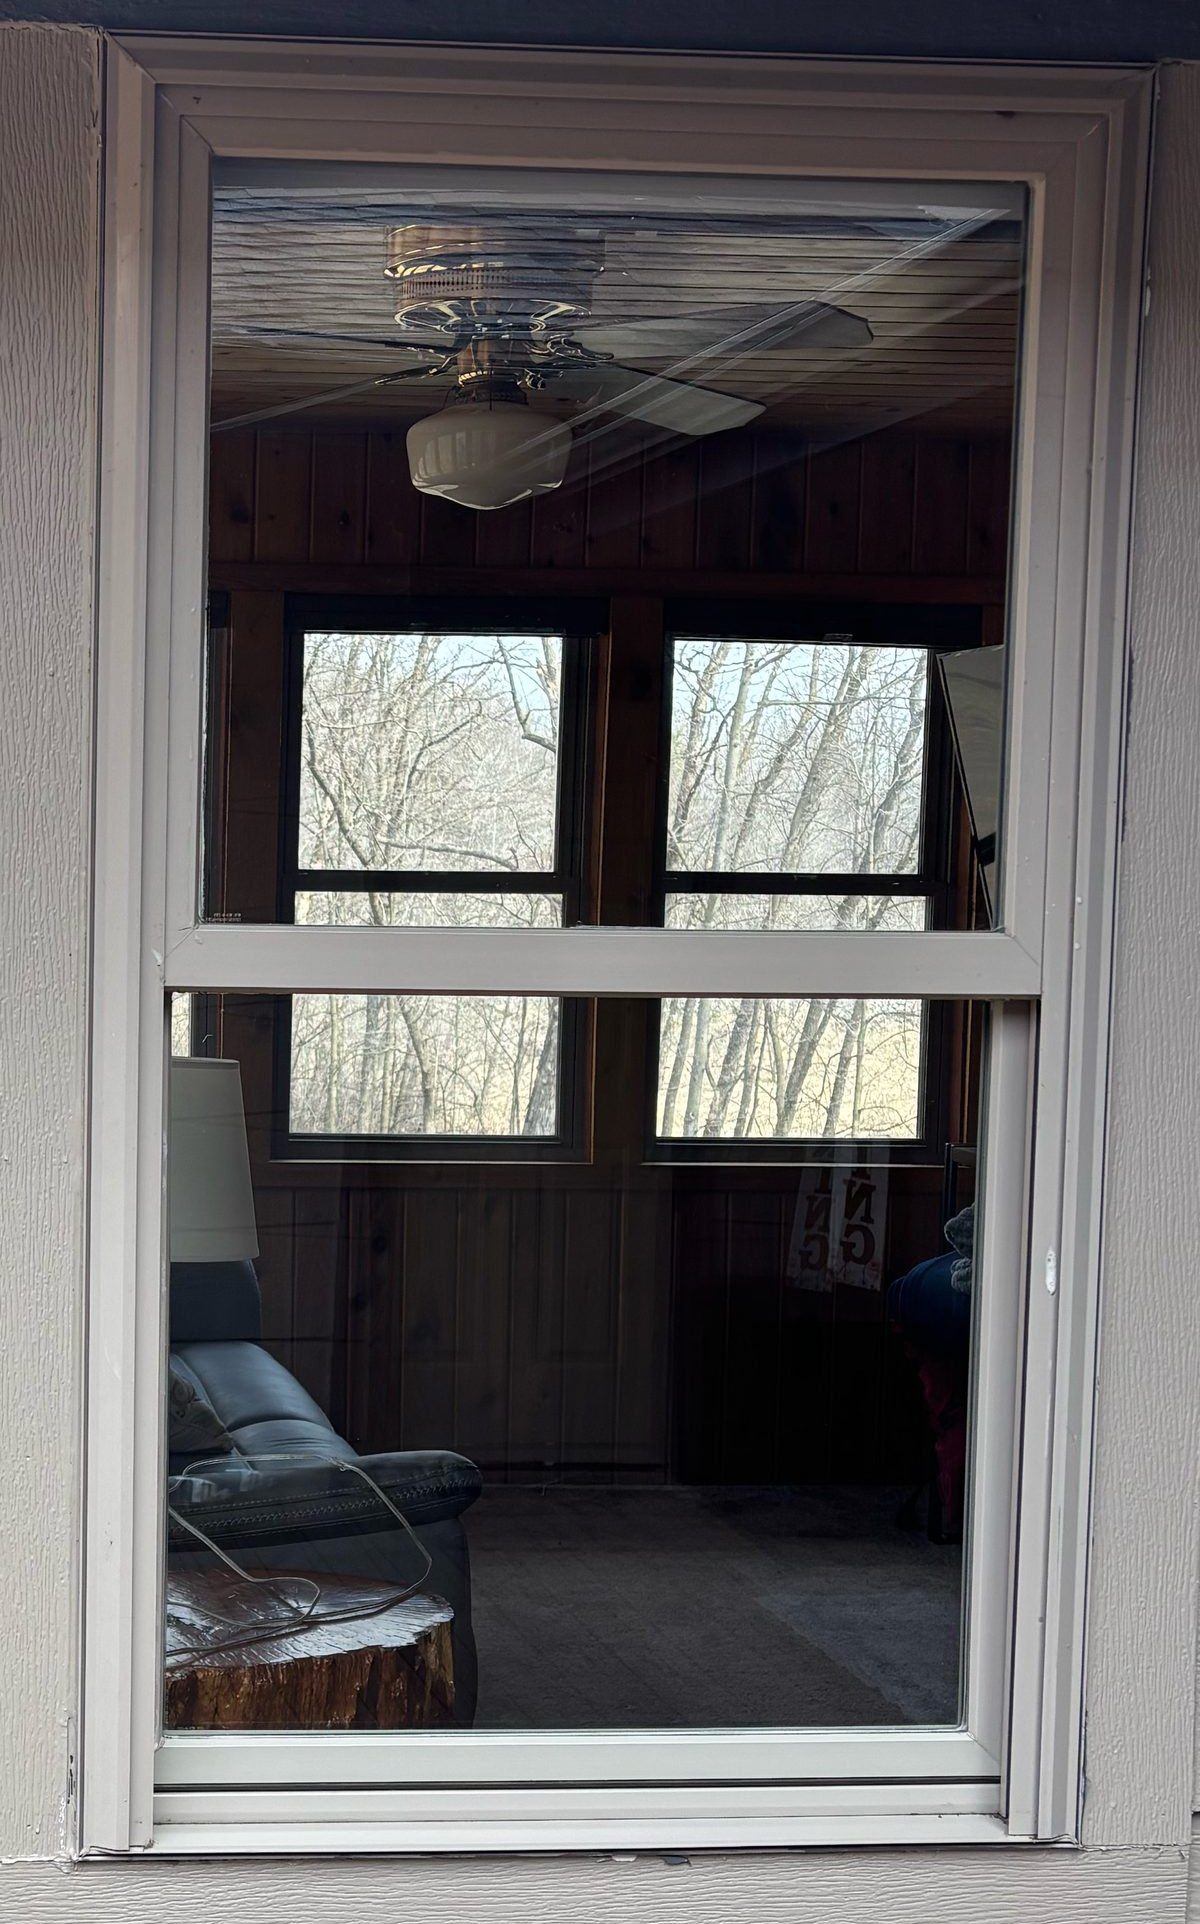
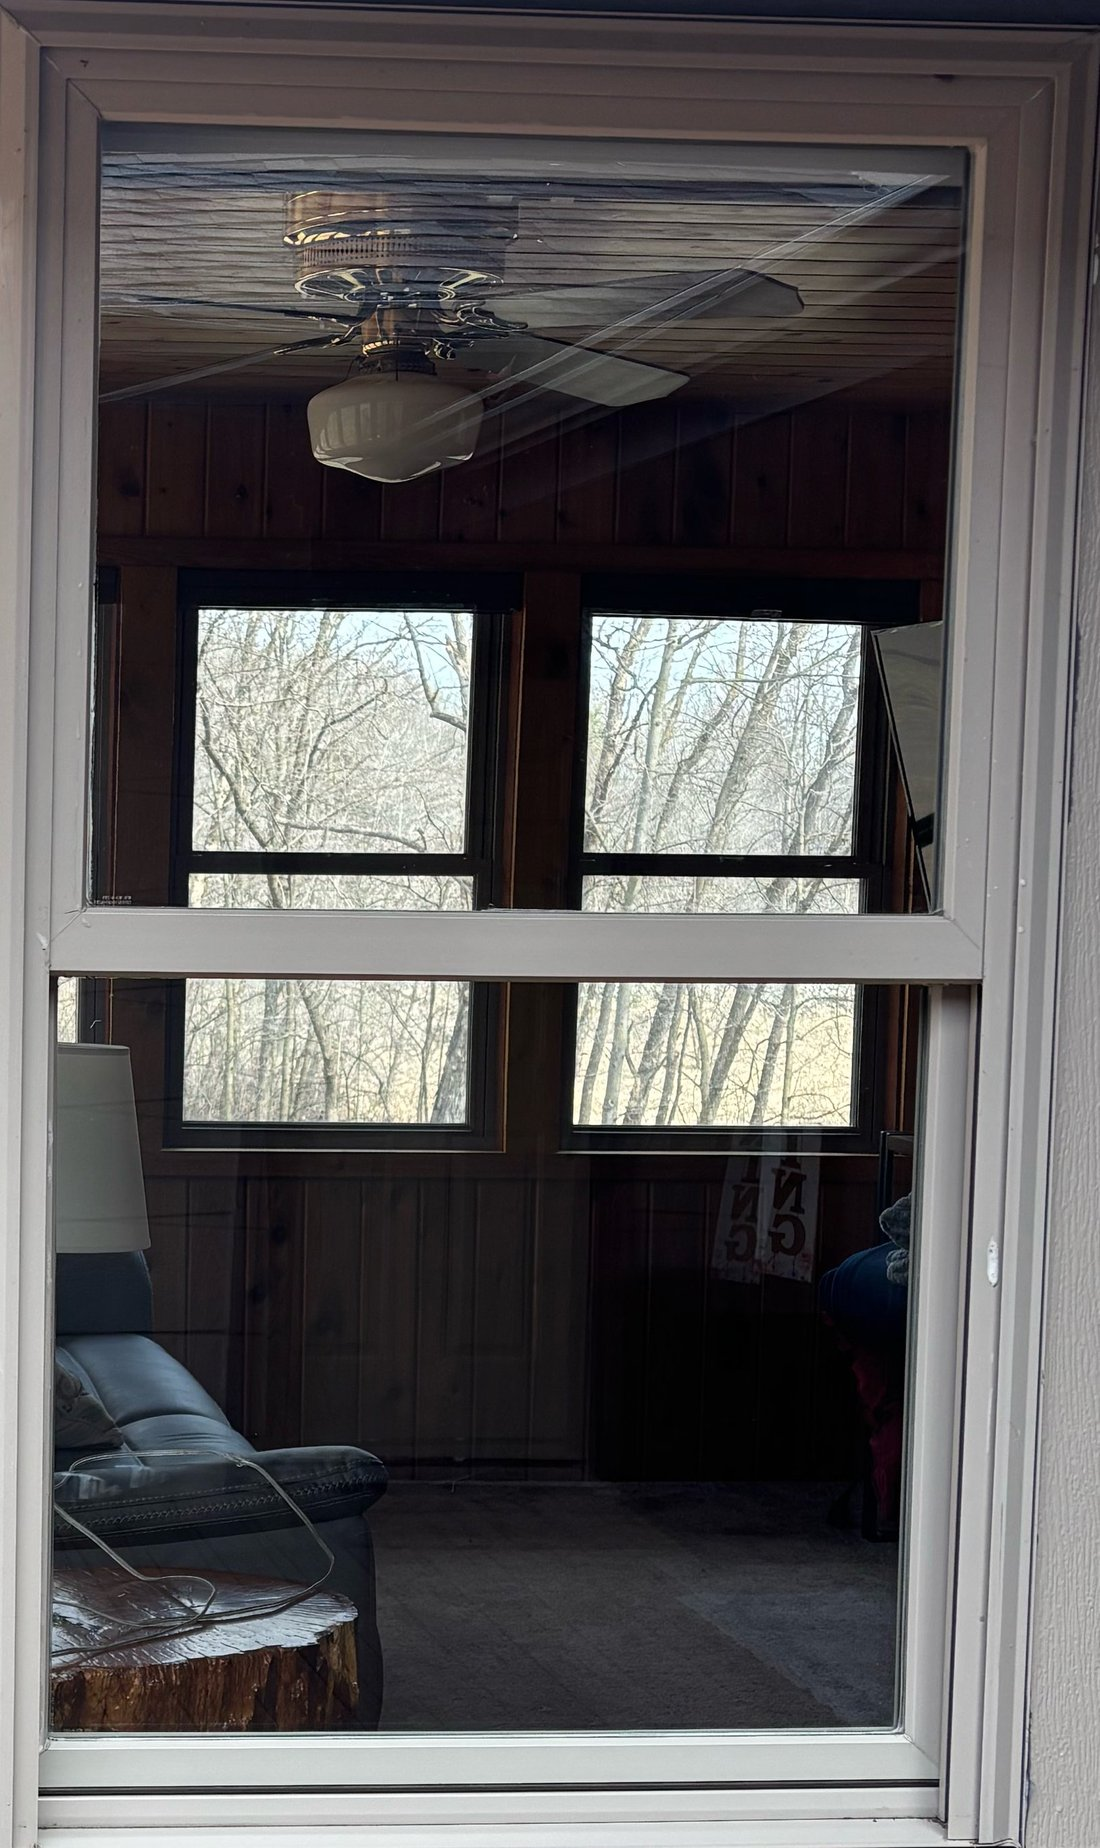
Split reviews widgets by page, re-crop window before/after pair
- Homepage now uses the first widget you sent (carousel), reviews.html
  uses the second one (grid) — each page reads its own config file
  under config/, with reviews.html falling back to the homepage
  widget if its own config is left empty.
- Re-crop the window before/after photos to the outer window trim on
  each photo independently (detected via contour analysis), instead
  of the previous mismatched crops. Cross-image feature-matching
  alignment (which worked well for the textured siding pair) turned
  out to be unreliable here — reflective glass didn't give stable
  matches and the estimated homography was degenerate — so this pair
  uses matched per-photo framing instead of a perspective warp.

diff --git a/reviews.html b/reviews.html
@@ -96,34 +96,13 @@
   <h1 class="sr-only">5.0★ rated by 100+ neighbors — Barta Window Washing Reviews</h1>
   <section class="section-tight" style="padding-top:calc(var(--nav-h) + 40px)"><div class="container"><div class="reviews-embed reveal" data-google-reviews><!--
   ===========================================================================
-  GOOGLE REVIEWS WIDGET — paste your embed code below this comment block.
-  ===========================================================================
+  GOOGLE REVIEWS WIDGET — REVIEWS PAGE — paste your embed code below this
+  block. This one shows on the standalone Reviews page (reviews.html) only.
+  For the homepage teaser widget, edit config/google-reviews-embed.html.
 
-  HOW TO GET YOUR EMBED CODE (one-time, ~5 minutes):
-
-  1. Pick a free review-widget provider (all are Google-approved and
-     auto-refresh your reviews). Popular options:
-       • Featurable        https://featurable.com        (generous free tier)
-       • Trustindex        https://www.trustindex.io
-       • Elfsight          https://elfsight.com/google-reviews-widget
-       • EmbedSocial       https://embedsocial.com
-
-  2. Create an account and connect your Google Business Profile
-     ("Barta Window Washing"). Choose a layout (grid/slider) and styling —
-     a white background with rounded cards matches this site best.
-
-  3. The provider gives you an "embed code" — usually a <div> + <script>,
-     or a single <script> tag. COPY IT.
-
-  4. PASTE it below this comment, replacing the placeholder line.
-
-  5. Rebuild the site:   python3 build/build.py
-     Your live Google reviews will now render on the Reviews page and the
-     homepage reviews section. Until you paste code here, the site shows the
-     curated written reviews automatically (no broken/empty section).
-
-  NOTE: keep the embed code lightweight and enable the provider's
-  "lazy load" option if available, to protect page speed / Core Web Vitals.
+  If this file is left empty, reviews.html falls back to whatever widget
+  is configured in config/google-reviews-embed.html, or curated review
+  cards if neither is set.
   ===========================================================================
 -->
 

diff --git a/index.html b/index.html
@@ -162,7 +162,11 @@
       <div class="reviews-embed reveal" data-google-reviews>
 <!--
   ===========================================================================
-  GOOGLE REVIEWS WIDGET — paste your embed code below this comment block.
+  GOOGLE REVIEWS WIDGET — HOMEPAGE — paste your embed code below this block.
+
+  This widget shows on the homepage's "Neighbors are saying" teaser.
+  The standalone Reviews page (reviews.html) uses a separate widget —
+  edit config/google-reviews-embed-reviews-page.html for that one.
   ===========================================================================
 
   HOW TO GET YOUR EMBED CODE (one-time, ~5 minutes):
@@ -184,9 +188,8 @@
   4. PASTE it below this comment, replacing the placeholder line.
 
   5. Rebuild the site:   python3 build/build.py
-     Your live Google reviews will now render on the Reviews page and the
-     homepage reviews section. Until you paste code here, the site shows the
-     curated written reviews automatically (no broken/empty section).
+     Until you paste code here, the homepage falls back to the curated
+     written reviews automatically (no broken/empty section).
 
   NOTE: keep the embed code lightweight and enable the provider's
   "lazy load" option if available, to protect page speed / Core Web Vitals.
@@ -194,7 +197,7 @@
 -->
 
 <!-- PASTE YOUR GOOGLE REVIEWS WIDGET EMBED CODE BELOW THIS LINE -->
-<script defer async src='https://cdn.trustindex.io/loader.js?110086f759705992a866c37e8a0'></script>
+<script defer async src='https://cdn.trustindex.io/loader.js?f013c797518a5802255651fa8cf'></script>
 
   <p class="center mt-3"><a class="btn btn-ghost" href="https://www.google.com/search?q=bartawindowwashing#lrd=0x52b4a9e4856ebf2f:0x384cc062f9b0d3f9,1,,,,"><svg viewBox="0 0 24 24" fill="currentColor" aria-hidden="true"><path d="m12 3 2.6 5.3 5.9.9-4.3 4.1 1 5.8L12 16.9 6.8 19.2l1-5.8L3.5 9.2l5.9-.9L12 3Z"/></svg> See all reviews on Google <svg viewBox="0 0 24 24" fill="none" stroke="currentColor" stroke-width="1.9" stroke-linecap="round" stroke-linejoin="round" aria-hidden="true"><path d="M5 12h14M13 6l6 6-6 6"/></svg></a></p>
 </div>

diff --git a/config/google-reviews-embed.html b/config/google-reviews-embed.html
@@ -1,6 +1,10 @@
 <!--
   ===========================================================================
-  GOOGLE REVIEWS WIDGET — paste your embed code below this comment block.
+  GOOGLE REVIEWS WIDGET — HOMEPAGE — paste your embed code below this block.
+
+  This widget shows on the homepage's "Neighbors are saying" teaser.
+  The standalone Reviews page (reviews.html) uses a separate widget —
+  edit config/google-reviews-embed-reviews-page.html for that one.
   ===========================================================================
 
   HOW TO GET YOUR EMBED CODE (one-time, ~5 minutes):
@@ -22,9 +26,8 @@
   4. PASTE it below this comment, replacing the placeholder line.
 
   5. Rebuild the site:   python3 build/build.py
-     Your live Google reviews will now render on the Reviews page and the
-     homepage reviews section. Until you paste code here, the site shows the
-     curated written reviews automatically (no broken/empty section).
+     Until you paste code here, the homepage falls back to the curated
+     written reviews automatically (no broken/empty section).
 
   NOTE: keep the embed code lightweight and enable the provider's
   "lazy load" option if available, to protect page speed / Core Web Vitals.
@@ -32,4 +35,4 @@
 -->
 
 <!-- PASTE YOUR GOOGLE REVIEWS WIDGET EMBED CODE BELOW THIS LINE -->
-<script defer async src='https://cdn.trustindex.io/loader.js?110086f759705992a866c37e8a0'></script>
+<script defer async src='https://cdn.trustindex.io/loader.js?f013c797518a5802255651fa8cf'></script>

diff --git a/config/google-reviews-embed-reviews-page.html b/config/google-reviews-embed-reviews-page.html
@@ -1,0 +1,14 @@
+<!--
+  ===========================================================================
+  GOOGLE REVIEWS WIDGET — REVIEWS PAGE — paste your embed code below this
+  block. This one shows on the standalone Reviews page (reviews.html) only.
+  For the homepage teaser widget, edit config/google-reviews-embed.html.
+
+  If this file is left empty, reviews.html falls back to whatever widget
+  is configured in config/google-reviews-embed.html, or curated review
+  cards if neither is set.
+  ===========================================================================
+-->
+
+<!-- PASTE YOUR GOOGLE REVIEWS WIDGET EMBED CODE BELOW THIS LINE -->
+<script defer async src='https://cdn.trustindex.io/loader.js?110086f759705992a866c37e8a0'></script>

diff --git a/build/build.py b/build/build.py
@@ -16,11 +16,11 @@ import schema as S
 
 PAGES = []  # (relpath, slug, lastmod, priority) for sitemap
 
-def load_reviews_widget():
+def load_reviews_widget(filename="google-reviews-embed.html"):
     """Return the Google reviews embed code if the owner has pasted one,
     else '' so pages fall back to curated review cards."""
     import re
-    p = os.path.join(ROOT, "config", "google-reviews-embed.html")
+    p = os.path.join(ROOT, "config", filename)
     if not os.path.exists(p):
         return ""
     raw = open(p, encoding="utf-8").read()
@@ -28,7 +28,10 @@ def load_reviews_widget():
     stripped = re.sub(r"<!--.*?-->", "", raw, flags=re.S).strip()
     return raw if stripped else ""
 
-REVIEWS_WIDGET = load_reviews_widget()
+# Homepage teaser uses one widget; the standalone Reviews page uses another
+# (e.g. a compact carousel on the homepage vs. a full grid on reviews.html).
+REVIEWS_WIDGET = load_reviews_widget("google-reviews-embed.html")
+REVIEWS_WIDGET_PAGE = load_reviews_widget("google-reviews-embed-reviews-page.html") or REVIEWS_WIDGET
 
 def write(relpath, html, slug=None, priority="0.7"):
     path = os.path.join(ROOT, relpath)
@@ -823,8 +826,8 @@ def build_reviews():
         desc=f"Read {BIZ['review_count']}+ five-star reviews for Barta Window Washing. See why Delano-area homeowners rate us 5.0★ for window cleaning, gutters, pressure washing & more.",
         slug="reviews.html", depth=depth, schema=schema, primary_kw="Barta Window Washing reviews Delano MN")
     html += C.nav(depth)
-    if REVIEWS_WIDGET and REVIEWS_WIDGET.strip():
-        reviews_content = f'<div class="reviews-embed reveal" data-google-reviews>{REVIEWS_WIDGET}</div>'
+    if REVIEWS_WIDGET_PAGE and REVIEWS_WIDGET_PAGE.strip():
+        reviews_content = f'<div class="reviews-embed reveal" data-google-reviews>{REVIEWS_WIDGET_PAGE}</div>'
     else:
         reviews_content = f'<div class="grid cols-3">{cards}</div>'
     html += f"""<main id="main">
